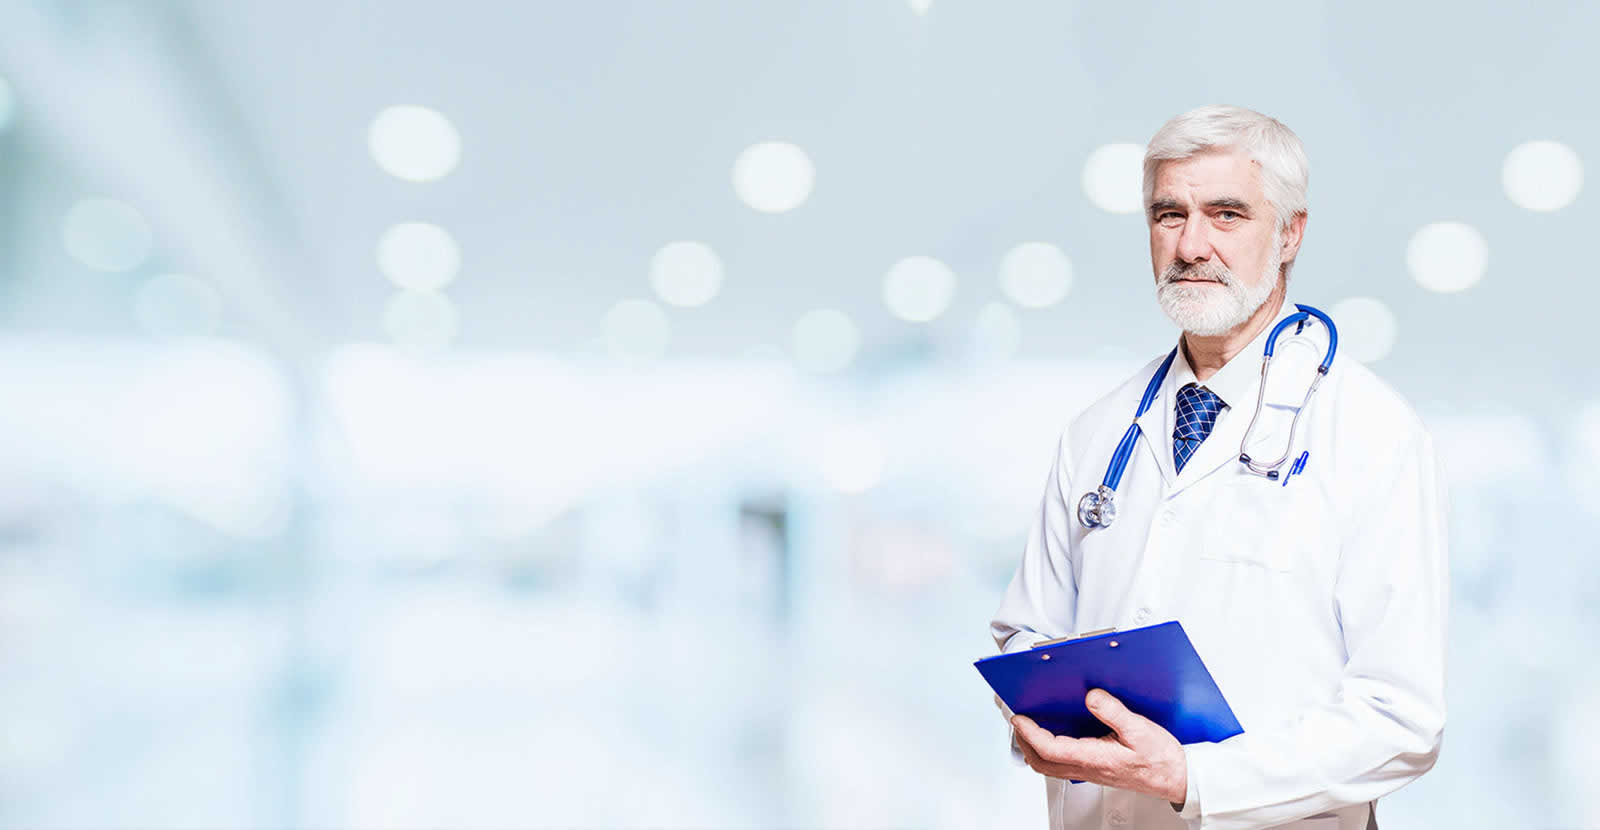
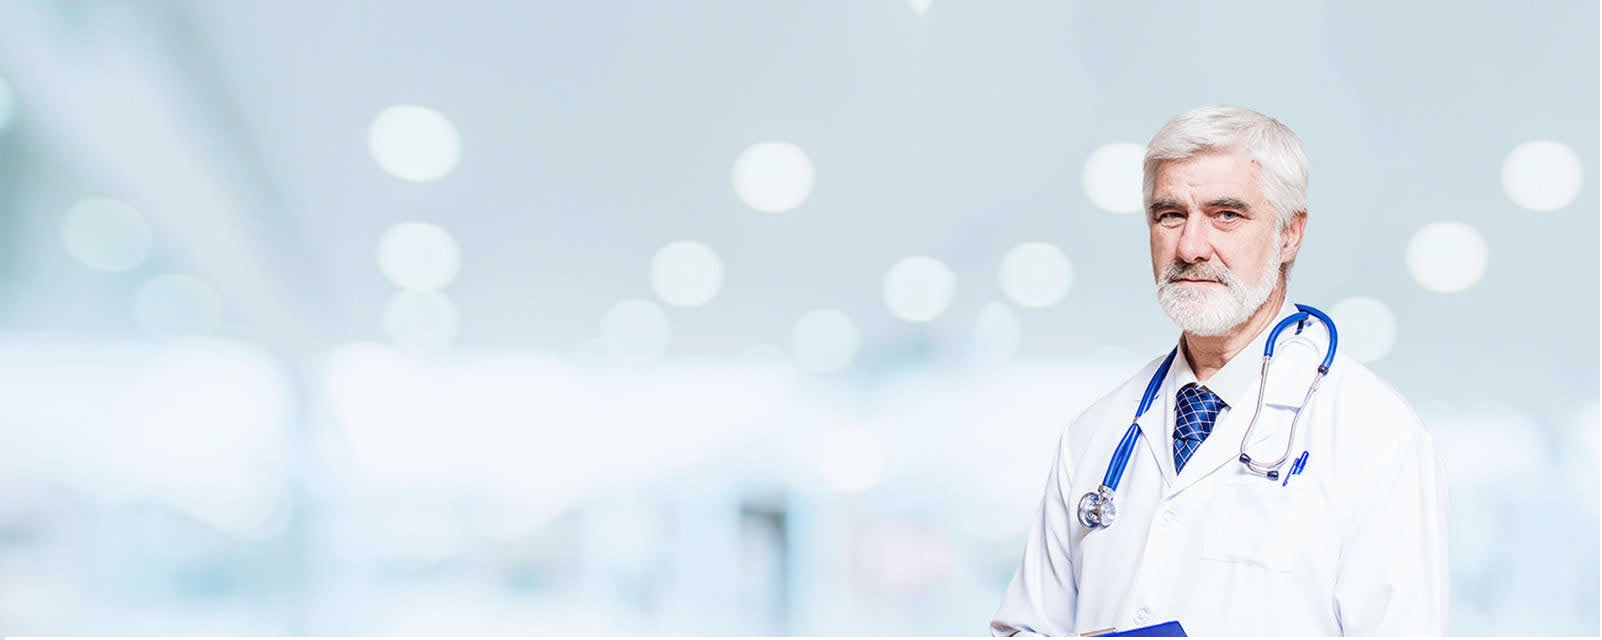
product carousel size reduced, bottle alligned with text

diff --git a/product.html b/product.html
@@ -140,10 +140,10 @@
 
 <!-- Slider Area -->
 
-<section class="slider">
-    <div class="hero-slider">
+<section class="slider" >
+    <div class="hero-slider" >
 
-        <div class="single-slider" style="background-image:url('img/cover1.jpg')">
+        <div class="single-slider" style="background-image:url('img/slider.jpg');">
             <div class="container">
                 <div class="row">
                     <div class="col-lg-7">
@@ -216,18 +216,18 @@
 </section>
 
 <section class="bg-white py-16 px-4 text-center shadow">
-	<div class="row">
-		<div class="col-2">
-			<img src="img/bottle_filled.png" alt="">
+	<div class="row items-center">
+		<div class="col-3 text-right">
+			<img src="img/bottle_filled.png" alt="" class="inline-block">
 		</div>
-		<div class="col-10">
+		<div class="col-9">
 			<h1 class="text-4xl font-bold text-blue-800">Adee by MedAdhere AI</h1>
 			<!--
-                        <p class="italic mt-4 text-lg text-gray-700">
-                          “Medicine only works if people take it.”<br>
-                          <span class="text-sm text-gray-500">— U.S. Surgeon General</span>
-                        </p>
-            -->
+			<p class="italic mt-4 text-lg text-gray-700">
+				“Medicine only works if people take it.”<br>
+				<span class="text-sm text-gray-500">— U.S. Surgeon General</span>
+			</p>
+			-->
 			<p class="mt-6 text-lg max-w-2xl mx-auto text-gray-600">
 				MedAdhere’s <strong>Adee</strong> platform is uniquely designed to deliver proven results with:
 			</p>
@@ -239,6 +239,7 @@
 		</div>
 	</div>
 </section>
+
 
 
 <section class="bg-white py-16 px-4 text-center shadow">

diff --git a/style.css b/style.css
@@ -587,13 +587,13 @@ body{
 	Start Hero Area CSS
 =============================*/
 .slider .single-slider {
-	height: 600px;
+	height: 500px;
 	background-size: cover;
 	background-position: center;
 	background-repeat:no-repeat;
 }
 .slider .single-slider .text{
-	margin-top:120px;
+	margin-top:150px;
 }
 .slider.index2 .single-slider .text{
 	margin-top:150px;
@@ -605,6 +605,7 @@ body{
 	margin: 0;
 	padding: 0;
 	line-height: 42px;
+	margin-right: 20px;
 }
 .slider .single-slider h1 span{
 	color:#1a76d1;
